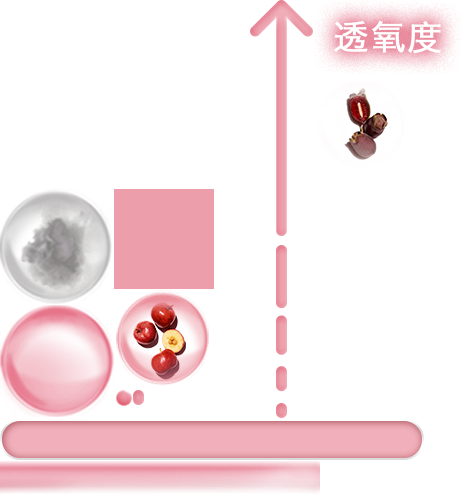
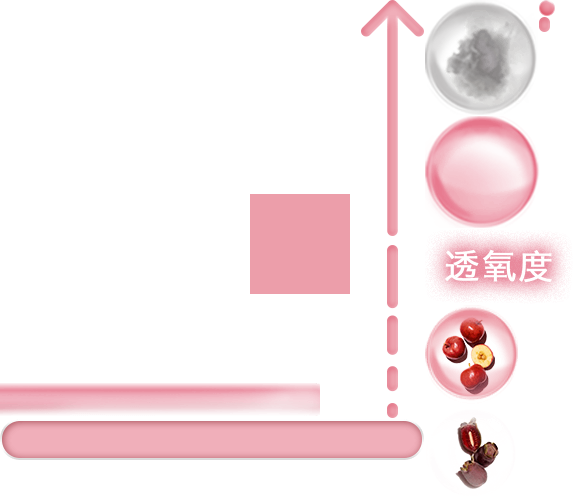
修改瓶子发光.先提交一版

diff --git a/src/script/GameControl.js b/src/script/GameControl.js
@@ -206,8 +206,9 @@ export default class GameControl extends Laya.Script {
             this.owner.arrBox.rotation = _tallA;
             this.owner.arrBox.moveDownRattion = _tallA;
         }
-        this.isOpacity(this.owner.arrBox, 1)
-
+        this.isOpacity(this.owner.arrBox, 1);
+        //开始瓶子发光效果
+        GameUI.instance.borderShine.play();
         //---------------------------------------------
     }
 
@@ -291,8 +292,10 @@ export default class GameControl extends Laya.Script {
         // }
         typeMouse = false;
         if (isMove || isMouseDownFirst) {
-            this.launchPaopao()
+            this.launchPaopao();
         }
+        //停止瓶子发光效果
+        GameUI.instance.borderShine.stop();
     }
     /**
      * 发射泡泡
@@ -356,6 +359,7 @@ export default class GameControl extends Laya.Script {
         this._isDrop = true;
         GameControl.instance.calcBoxPos();
         this.startGame();
+        GameUI.instance.arrBox.alpha = 0; 
         //点击事件
         Laya.stage.on(Laya.Event.MOUSE_DOWN, this, this.OnStageMouseDown);
         Laya.stage.on(Laya.Event.MOUSE_MOVE, this, this.OnStageMouseMove);

diff --git a/bin/js/LayaGame.js b/bin/js/LayaGame.js
@@ -638,7 +638,8 @@ let HexagonArr = []; //存放碰撞球的周边6个球的位置
                 this.owner.arrBox.moveDownRattion = _tallA;
             }
             this.isOpacity(this.owner.arrBox, 1);
-
+            //开始瓶子发光效果
+            GameUI.instance.borderShine.play();
             //---------------------------------------------
         }
 
@@ -724,6 +725,8 @@ let HexagonArr = []; //存放碰撞球的周边6个球的位置
             if (isMove || isMouseDownFirst) {
                 this.launchPaopao();
             }
+            //停止瓶子发光效果
+            GameUI.instance.borderShine.stop();
         }
         /**
          * 发射泡泡
@@ -787,6 +790,7 @@ let HexagonArr = []; //存放碰撞球的周边6个球的位置
             this._isDrop = true;
             GameControl.instance.calcBoxPos();
             this.startGame();
+            GameUI.instance.arrBox.alpha = 0; 
             //点击事件
             Laya.stage.on(Laya.Event.MOUSE_DOWN, this, this.OnStageMouseDown);
             Laya.stage.on(Laya.Event.MOUSE_MOVE, this, this.OnStageMouseMove);

diff --git a/bin/js/bundle.js b/bin/js/bundle.js
@@ -641,7 +641,8 @@
                 this.owner.arrBox.moveDownRattion = _tallA;
             }
             this.isOpacity(this.owner.arrBox, 1);
-
+            //开始瓶子发光效果
+            GameUI.instance.borderShine.play();
             //---------------------------------------------
         }
 
@@ -727,6 +728,8 @@
             if (isMove || isMouseDownFirst) {
                 this.launchPaopao();
             }
+            //停止瓶子发光效果
+            GameUI.instance.borderShine.stop();
         }
         /**
          * 发射泡泡
@@ -790,6 +793,7 @@
             this._isDrop = true;
             GameControl.instance.calcBoxPos();
             this.startGame();
+            GameUI.instance.arrBox.alpha = 0; 
             //点击事件
             Laya.stage.on(Laya.Event.MOUSE_DOWN, this, this.OnStageMouseDown);
             Laya.stage.on(Laya.Event.MOUSE_MOVE, this, this.OnStageMouseMove);

diff --git a/bin/activityPaopao.html b/bin/activityPaopao.html
@@ -107,7 +107,7 @@
 	<script src="libs/laya.core.js"></script>
 	<script src="libs/laya.ui.js"></script>
 	<script src="libs/laya.physics.js"></script>
-	<script src="js/LayaGame.js?v=4"></script>
+	<script src="js/LayaGame.js?v=6"></script>
 	<script src="js/activityPaopaoGame.js?v=2"></script>
 	<script>ibase.load('js/activityPaopao.js');</script>
 </body>
